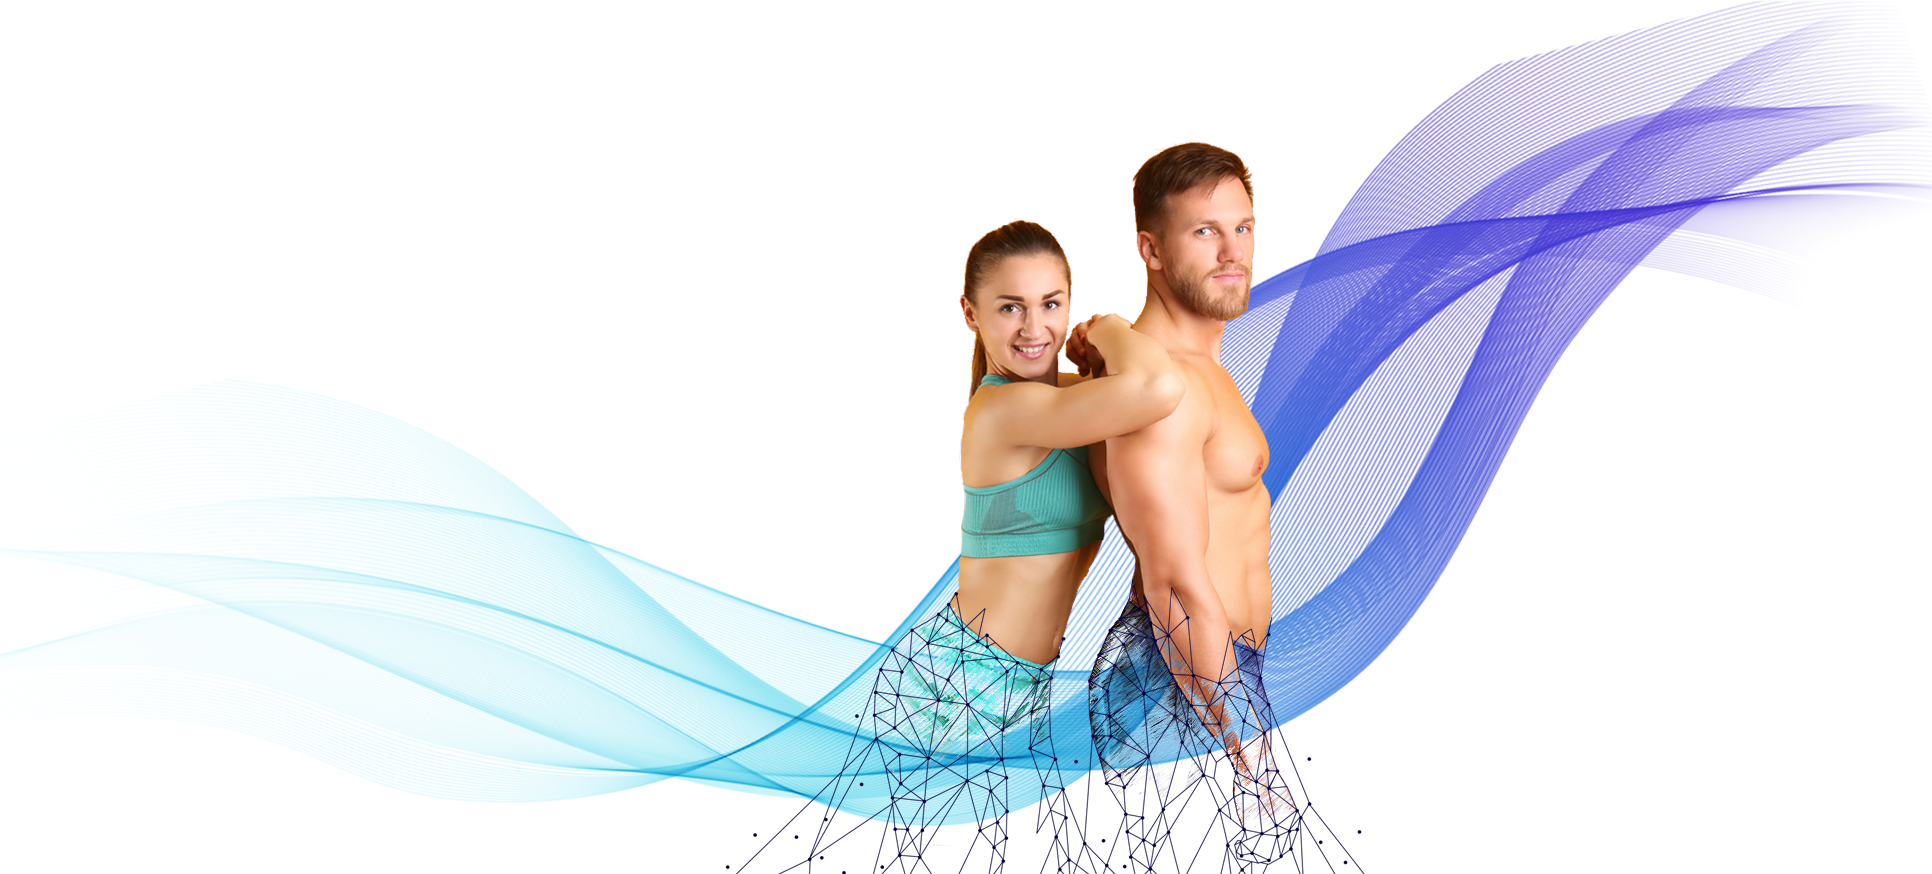
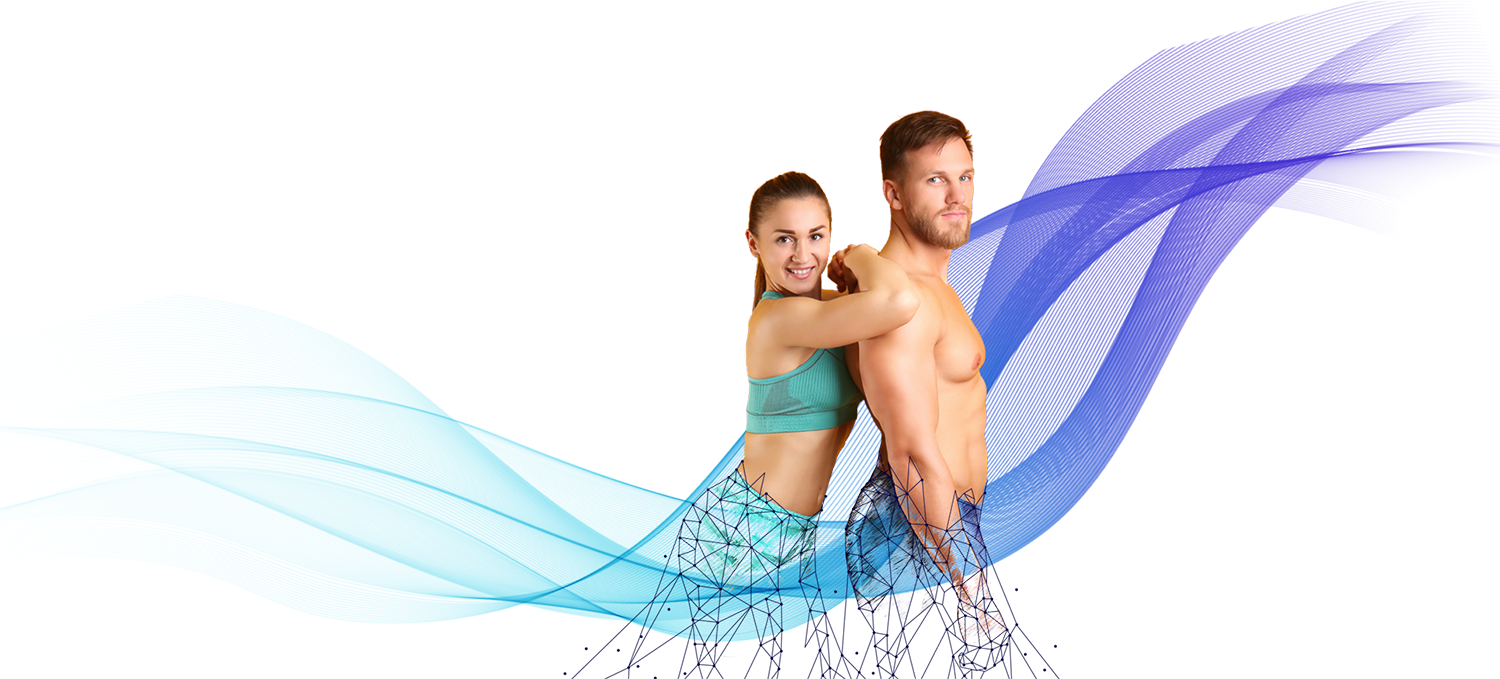
оптимизация картинок на главной (+скорость)

diff --git a/homepage/static/homepage/css/homepage.css b/homepage/static/homepage/css/homepage.css
@@ -15,11 +15,13 @@ main {
 /* welcome_section */
 #welcome_section {
     height: 100vh;
-    background-image: url(/static/homepage/img/homepage_trapeze.svg), url(/static/homepage/img/man_lowpoly.png);
+    background-image: 
+        url(/static/homepage/img/homepage_trapeze.svg),
+        url(/static/homepage/img/man_lowpoly.jpg);
     background-color: #e9ebfe;
     background-size: cover;
     background-position-x: center;
-    background-position-y: center, center;
+    background-position-y: center;
     background-repeat: no-repeat, no-repeat;
 }
 #welcome_section .container {
@@ -82,7 +84,7 @@ main {
 
 /* why_section */
 #why_section {
-    background-image: url(/static/homepage/img/why_section_back.png);
+    background-image: url(/static/homepage/img/background_hexagons.png);
     background-size: cover;
     background-position: center;
     background-repeat: no-repeat;
@@ -778,7 +780,7 @@ main {
     text-shadow: 0px 0px 10px #2a356a;
 }
 #hero_section1 {
-    background-image: url(/static/homepage/img/health_invest_background.png);
+    background-image: url(/static/homepage/img/health_invest_background.jpg);
     background-color: #5876fe;
     background-size: cover;
     background-position-y: center;
@@ -842,7 +844,7 @@ main {
 
 /* what_section */
 #what_section {
-    background-image: url(/static/homepage/img/why_section_back.png);
+    background-image: url(/static/homepage/img/background_hexagons.png);
     background-size: cover;
     background-position: center;
     background-repeat: no-repeat;
@@ -1725,7 +1727,7 @@ main {
 
 /* about_specialist_section */
 #about_specialist_section {
-    background-image: url(/static/homepage/img/why_section_back.png);
+    background-image: url(/static/homepage/img/background_hexagons.png);
     background-size: cover;
     background-position: center;
     background-repeat: no-repeat;

diff --git a/homepage/templates/homepage/homepage.html b/homepage/templates/homepage/homepage.html
@@ -79,16 +79,16 @@
         <div class="container">
             <div id="certificates_row" class="d-none d-md-flex">
                 <a href="{% static 'homepage/img/certificates/trainer_diploma.jpg' %}" target="_blank">
-                    <img src="{% static 'homepage/img/certificates/trainer_diploma.jpg' %}">
+                    <img src="{% static 'homepage/img/certificates/trainer_diploma_thumbnail.jpg' %}">
                 </a>
                 <a href="{% static 'homepage/img/certificates/trainer.jpg' %}" target="_blank">
-                    <img src="{% static 'homepage/img/certificates/trainer.jpg' %}">
+                    <img src="{% static 'homepage/img/certificates/trainer_thumbnail.jpg' %}">
                 </a>
                 <a href="{% static 'homepage/img/certificates/nutrition.jpg' %}" target="_blank">
-                    <img src="{% static 'homepage/img/certificates/nutrition.jpg' %}">
+                    <img src="{% static 'homepage/img/certificates/nutrition_thumbnail.jpg' %}">
                 </a>
                 <a href="{% static 'homepage/img/certificates/psychology_diploma.jpg' %}" target="_blank">
-                    <img src="{% static 'homepage/img/certificates/psychology_diploma.jpg' %}">
+                    <img src="{% static 'homepage/img/certificates/psychology_diploma_thumbnail.jpg' %}">
                 </a>
             </div>
             <div id="certificates_carousel" class="carousel slide d-md-none" data-bs-ride="carousel">
